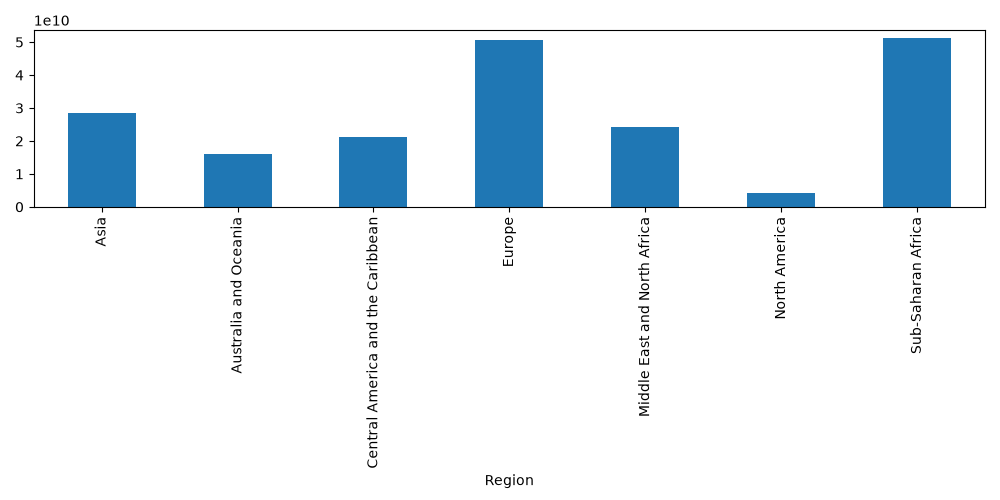
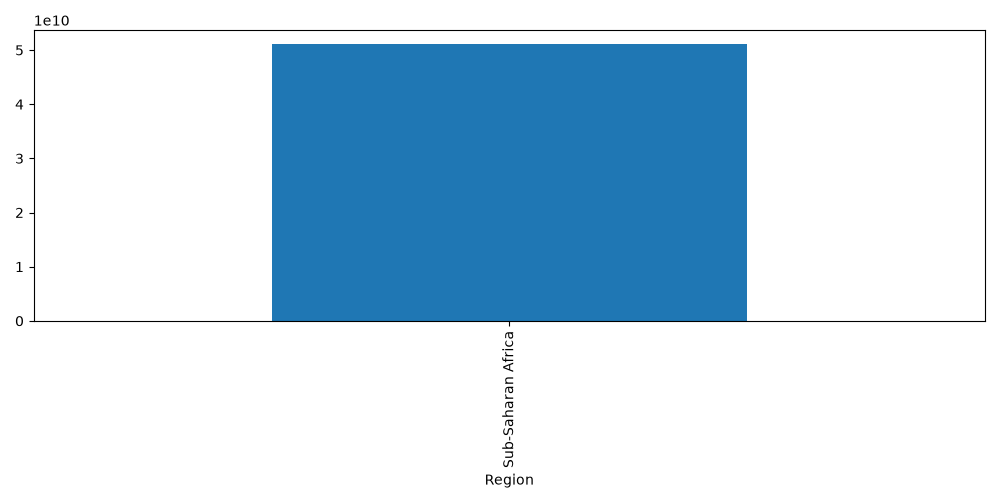
Completed the analyst agent integration with router and dispatcher

diff --git a/backend/app/prompts/router_prompt.py b/backend/app/prompts/router_prompt.py
@@ -1,31 +1,105 @@
 ROUTER_PROMPT = """
 You are an enterprise AI router.
 
-Classify the user's request into exactly one of:
+Your job is to classify the user's request into exactly one of the following agents:
 
 SQL_AGENT
 RAG_AGENT
 ANALYST_AGENT
 
+
+========================
+SQL_AGENT
+========================
+
+Use SQL_AGENT when the user is asking questions about structured data stored in a database and wants to retrieve, filter, count, search, or lookup records.
+
 Examples:
 
 Show all employees
-→ SQL_AGENT
+List employees in Bangalore
+How many employees work in Engineering
+Show employee salary details
+Find employees who joined after 2023
+List all departments
+Count employees in each department
 
-Which department has highest salary
-→ SQL_AGENT
+Route to SQL_AGENT when the task can be solved by querying a database table.
+
+
+========================
+RAG_AGENT
+========================
+
+Use RAG_AGENT when the user asks questions about uploaded documents, PDFs, policies, handbooks, manuals, contracts, procedures, or knowledge base content.
+
+Examples:
 
 What does the leave policy say
-→ RAG_AGENT
+Summarize the employee handbook
+What is the reimbursement policy
+Explain the travel policy
+What are the company benefits
+Summarize the uploaded document
 
-Summarize the uploaded handbook
-→ RAG_AGENT
+Route to RAG_AGENT when information must be retrieved from uploaded documents.
 
+
+========================
+ANALYST_AGENT
+========================
+
+Use ANALYST_AGENT when the user wants data analysis, aggregations, statistics, trends, rankings, comparisons, visualizations, business intelligence, chart generation, CSV analysis, or pandas-based operations.
+
+Examples:
+
+Which region has highest profit
+Show sales by country
+Top 10 products by revenue
 Analyze the uploaded sales file
-→ ANALYST_AGENT
+Create a chart of revenue by region
+Show profit trends over time
+Compare sales across regions
+Which category performs best
+What is the average profit by region
+Show monthly sales trend
+Generate a visualization of revenue
+Rank regions by profit
+Analyze the dataset
+Find the best performing product
 
-Create a chart from uploaded CSV
-→ ANALYST_AGENT
+IMPORTANT:
 
-Return ONLY the agent name.
+Questions involving:
+- sales
+- revenue
+- profit
+- trends
+- analytics
+- aggregations
+- comparisons
+- rankings
+- charts
+- visualizations
+- CSV files
+- business metrics
+- data analysis
+
+should be routed to ANALYST_AGENT.
+
+Even if the data could technically be queried with SQL, if the user's intent is analysis, comparison, aggregation, ranking, trend detection, or visualization, choose ANALYST_AGENT.
+
+
+========================
+OUTPUT FORMAT
+========================
+
+Return ONLY one of the following:
+
+SQL_AGENT
+RAG_AGENT
+ANALYST_AGENT
+
+Do not explain your answer.
+Do not add any extra text.
 """

diff --git a/backend/app/agents/analyst_agent.py b/backend/app/agents/analyst_agent.py
@@ -1,15 +1,29 @@
 import pandas as pd
+from app.services.pandas_generator import generate_pandas_query
+from app.services.pandas_executor import execute_pandas_query
+from app.services.chart_generator import generate_chart
+from app.services.analyst_summarizer import analyst_summarizer
 
-def analyst_agent_query():
+def analyst_agent_query(question):
 
     df = pd.read_csv(
         "app/uploads/sales.csv"
     )
+    columns=list(df.columns)
+
+    pandas_code=generate_pandas_query(question=question,columns=columns)
+
+    result=execute_pandas_query(pandas_code=pandas_code,df=df)
+
+    chart_path=generate_chart(result=result)
+
+    summary=analyst_summarizer(question,result)
 
     return {
-        "rows": len(df),
-        "columns": list(df.columns),
-        "sample": df.head().to_dict(
-            orient="records"
-        )
+        "agent": "ANALYST_AGENT",
+        "question": question,
+        "generated_code": pandas_code,
+        "summary": summary,
+        "chart_path": chart_path,
+        "result": result
     }

diff --git a/backend/app/agents/test_dispatcher.py b/backend/app/agents/test_dispatcher.py
@@ -1,13 +1,10 @@
+# app/agents/test_dispatcher.py
+
 from app.agents.agent_dispatcher import dispatch_agent
-from app.services.router import route_question
 
-question = "show all employees"
-
-agent = route_question(question)
-
-result = dispatch_agent(
-    agent,
-    question
+response = dispatch_agent(
+    "ANALYST_AGENT",
+    "Which region has highest profit?"
 )
 
-print(result)
+print(response)

diff --git a/backend/app/services/test_router.py b/backend/app/services/test_router.py
@@ -1,0 +1,15 @@
+# app/services/test_router.py
+
+from app.services.router import route_question
+
+questions = [
+    "Show all employees",
+    "What does the leave policy say?",
+    "Which region has highest profit?",
+    "Show sales by country",
+    "Create a chart of revenue by region"
+]
+
+for q in questions:
+    print(f"\nQuestion: {q}")
+    print(route_question(q))

diff --git a/backend/app/services/test_pandas_executor.py b/backend/app/services/test_pandas_executor.py
@@ -1,7 +1,7 @@
 import pandas as pd
 
 from app.agents.analyst_agent import analyst_agent_query
-from app.services.panda_generator import generate_pandas_query
+from backend.app.services.pandas_generator import generate_pandas_query
 from app.services.pandas_executor import execute_pandas_query
 from app.services.analyst_summarizer import analyst_summarizer
 

diff --git a/backend/app/services/test_pandas_generator.py b/backend/app/services/test_pandas_generator.py
@@ -1,5 +1,5 @@
 from app.agents.analyst_agent import analyst_agent_query
-from app.services.panda_generator import generate_panda_query
+from backend.app.services.pandas_generator import generate_panda_query
 from app.services.pandas_executor import execute_pandas_query
 
 result=analyst_agent_query()

diff --git a/backend/app/agents/test_analyst_agent.py b/backend/app/agents/test_analyst_agent.py
@@ -1,0 +1,7 @@
+from app.agents.analyst_agent import analyst_agent_query
+
+response = analyst_agent_query(
+    "Which region has highest profit?"
+)
+
+print(response)
